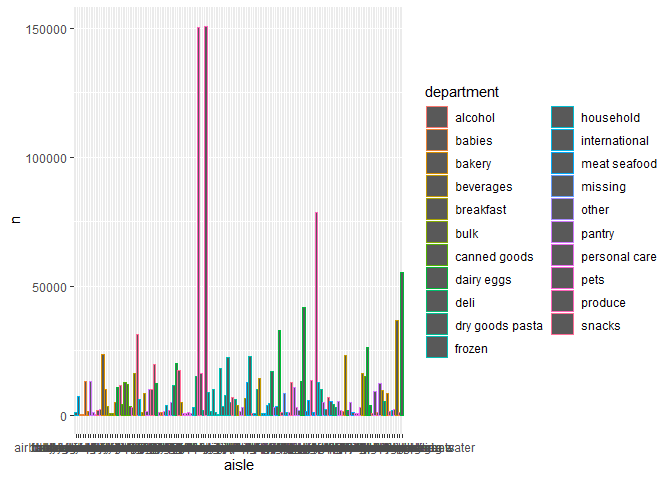
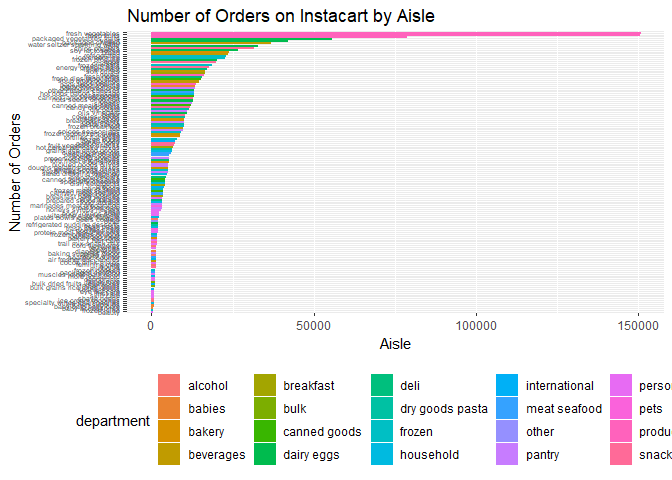
finish problem 2

Changed region(s): [[0.0312, 0.0, 1.0, 1.0], [0.0, 0.0312, 0.1875, 0.6562]]

diff --git a/p8105_hw3_rt2712.md b/p8105_hw3_rt2712.md
@@ -15,14 +15,14 @@ Load and clean up the BRFSS data
 library(tidyverse)
 ```
 
-    ## -- Attaching packages ---------------------------------------------------------------------------- tidyverse 1.2.1 --
+    ## -- Attaching packages --------------------------------------------------------------------------------- tidyverse 1.2.1 --
 
     ## v ggplot2 3.0.0     v purrr   0.2.5
     ## v tibble  1.4.2     v dplyr   0.7.6
     ## v tidyr   0.8.1     v stringr 1.3.1
     ## v readr   1.1.1     v forcats 0.3.0
 
-    ## -- Conflicts ------------------------------------------------------------------------------- tidyverse_conflicts() --
+    ## -- Conflicts ------------------------------------------------------------------------------------ tidyverse_conflicts() --
     ## x dplyr::filter() masks stats::filter()
     ## x dplyr::lag()    masks stats::lag()
 
@@ -80,7 +80,7 @@ brfss_data %>%
 
 ![](p8105_hw3_rt2712_files/figure-markdown_github/unnamed-chunk-3-1.png)
 
-The spaghetti plot above shows the number of different counties that were surveyed by the BRFSS from 2002 to 2010 in each state. Since all 50 states and DC are representd in the data set, it is hard to distinguish between the different states in the plot by color. However, there isn't really a better way to distinguish between the states, so while the figure looks pretty nice, it is not necessarily a good figure to draw conclusions from.
+The spaghetti plot above shows the number of different counties that were surveyed by the BRFSS from 2002 to 2010 in each state. Since all 50 states and DC are representd in the data set, it is hard to distinguish between the different states in the plot by color. However, there I couldn't really figure out a better way to distinguish between the states, the figure is not necessarily a good figure to draw conclusions from.
 
 **Mean and standard deviation of the proportion of “Excellent” responses across locations in NY State (2002, 2006, and 2010)**
 
@@ -89,14 +89,14 @@ brfss_data %>%
   filter(state == "NY", response == "Excellent", year == 2002 | year == 2006 | year == 2010) %>%
   group_by(year) %>%
   summarize(mean_excellent = mean(proportion_responses), sd_excellent = sd(proportion_responses)) %>%
-  knitr::kable()
+  knitr::kable(digits = 1)
 ```
 
 |  year|  mean\_excellent|  sd\_excellent|
 |-----:|----------------:|--------------:|
-|  2002|         24.04000|       4.486424|
-|  2006|         22.53333|       4.000833|
-|  2010|         22.70000|       3.567212|
+|  2002|             24.0|            4.5|
+|  2006|             22.5|            4.0|
+|  2010|             22.7|            3.6|
 
 From the summary table above, it appears as if the mean number of respondents who consider themselves to be in "Excellent" health was about the same in 2002, 2006, and 2010 (about 22-24% of respondents). Looking at the standard deviations, it appears as if there was the highest variation in the proportion of excellent responses by county in NY in 2002 and the lowest variation in 2010.
 
@@ -117,7 +117,7 @@ brfss_data %>%
 
 ![](p8105_hw3_rt2712_files/figure-markdown_github/unnamed-chunk-5-1.png)
 
-In this 5 panel plot, we can see how the proportion of responses for each state varies across time. Also, since we plot of a point for each state, we can get an idea of how varied the data are for within each category.
+In this 5 panel plot, we can see how the proportion of responses for each state varies across time. Also, since I plotted a point for each state, we can get an idea of how varied the data are within each category.
 
 Problem 2
 =========
@@ -130,7 +130,7 @@ data("instacart")
 ```
 
 **Dataset description**
-This dataset contains information about customer orders from Instacart, a grocery delivery company. First, there is some information about the customer including the customer ID, days since last Instacart order, number of times they've ordered from Instacart, and the time the customer placed the order. Additionally, there is information about the contents of the order including the product name and where the product can be found in the store (department and aisle). For example, the product "Bulgarian yogurt" is identified by a numerical product ID, and it is in the "yogurt" aisle in the "dairy & eggs" department. The aisle and deparment is also identified by a numerical ID. There are 1,384,617 observations of 15 variables.
+This dataset contains information about customer orders from Instacart, a grocery delivery company. First, there is some information about the customer including the customer ID, days since last Instacart order, number of times they've ordered from Instacart, and the day and time the customer placed the order. Additionally, there is information about the contents of the order including the product name and where the product can be found in the store (department and aisle). For example, the product "Bulgarian yogurt" is identified by a numerical product ID, and it is in the "yogurt" aisle in the "dairy & eggs" department. The aisle and deparment is also identified by a numerical ID. There are 1,384,617 observations of 15 variables.
 
 Step 2
 ------
@@ -159,33 +159,60 @@ instacart %>%
 
 There are 134 aisles, and the most ordered from aisles are shown in the table above.
 
-**Plot that shows the number of items ordered in each aisle. Order aisles sensibly, and organize your plot so others can read it**
+**Plot showing the number of items ordered in each aisle**
 
 ``` r
-plot = instacart %>%
-  group_by(department, aisle) %>%
-  summarize (n = n()) %>%
-  arrange(department, -n)
-
-ggplot(plot, aes(x = aisle, y = n, color = department)) +
-  geom_bar(stat = "identity")
+instacart %>%
+  group_by(department, aisle, aisle_id) %>%
+  filter(aisle != "missing") %>%
+  summarize(n = n()) %>%
+  ungroup() %>%
+  mutate(aisle = factor(aisle, levels = aisle[order(n)])) %>%
+  ggplot(aes(x = aisle, y = n, color = department, fill = department)) +
+  geom_bar(stat = "identity", width = 0.5) + 
+  coord_flip() +
+  theme(axis.text.y = element_text(size = rel(0.6)), legend.position = "bottom" ) +
+  labs(x = "Number of Orders", y = "Aisle", title = "Number of Orders on Instacart by Aisle")
 ```
 
 ![](p8105_hw3_rt2712_files/figure-markdown_github/unnamed-chunk-8-1.png)
 
-``` r
-## scale_x_continuous(breaks = seq(first break, last number, count by))
-```
+In the plot above, I chose to order the aisle by the number of orders. Because there are 134 aisles, it was a challenge figuring how best to display all of the aisles in a readable way. One option that would have increased readability was to display the aisles by their ID number, but since this would require one to reference another data set in order to know which aisle matched which ID, I really wanted to display the aisle names. Flipping the coordinate axes helped with this problem. Additionally, I chose to use colors to display the department each aisle belonged to so that the figure shows more information - for example, it is interesting to note that the top 3 most ordered from aisles are all from the produce department.
+
+**Most popular item in “baking ingredients”, “dog food care”, and “packaged vegetables fruits”**
 
 ``` r
-ny_noaa = janitor::clean_names(ny_noaa)
-
-tidy_ny_noaa = separate(ny_noaa, date, into = c("year", "month", "day"), sep = "-") %>%
-  mutate(year = as.numeric(year), 
-         month = as.numeric(month), 
-         day = as.numeric(day), 
-         tmax = as.numeric(tmax)/10, 
-         tmin = as.numeric(tmin)/10,
-         prcp = prcp/10
-         )
+instacart %>% 
+  group_by(aisle, product_name) %>%
+  filter(aisle == "baking ingredients" | aisle == "dog food care" | aisle == "packaged vegetables fruits") %>%
+  summarize(n = n()) %>%
+  filter(n == max(n)) %>%
+  knitr::kable()
 ```
+
+| aisle                      | product\_name                                 |     n|
+|:---------------------------|:----------------------------------------------|-----:|
+| baking ingredients         | Light Brown Sugar                             |   499|
+| dog food care              | Snack Sticks Chicken & Rice Recipe Dog Treats |    30|
+| packaged vegetables fruits | Organic Baby Spinach                          |  9784|
+
+The most popular items from each aisle are listed above. "Packaged vegetable fruits" is one of the most ordered from aisles, so it is unsurprising that the most ordered item within that aisle is ordered much more often than the most ordered items in the other two aisles.
+
+**Table showing the mean hour of the day at which Pink Lady Apples and Coffee Ice Cream are ordered on each day of the week)**
+
+``` r
+instacart %>%
+  mutate(order_dow = factor(order_dow, 0:6, c("Sunday", "Monday", "Tuesday", "Wednesday", "Thursday", "Friday", "Saturday"))) %>%
+  filter(product_name == "Pink Lady Apples" | product_name == "Coffee Ice Cream") %>%
+  group_by(order_dow, product_name) %>%
+  summarize(mean_hour = mean(order_hour_of_day)) %>%
+  spread(key = order_dow, value = mean_hour) %>%
+  knitr::kable(digits = 1)
+```
+
+| product\_name    |  Sunday|  Monday|  Tuesday|  Wednesday|  Thursday|  Friday|  Saturday|
+|:-----------------|-------:|-------:|--------:|----------:|---------:|-------:|---------:|
+| Coffee Ice Cream |    13.8|    14.3|     15.4|       15.3|      15.2|    12.3|      13.8|
+| Pink Lady Apples |    13.4|    11.4|     11.7|       14.2|      11.6|    12.8|      11.9|
+
+Generally, it seems as is people are buying coffee ice cream and pink lady apples at about the same mean time on Sunday, Wednesday, and Friday. On the other days the mean hour that coffee ice cream is ordered is a couple of hours after the mean hour that pink lady apples are ordered.
